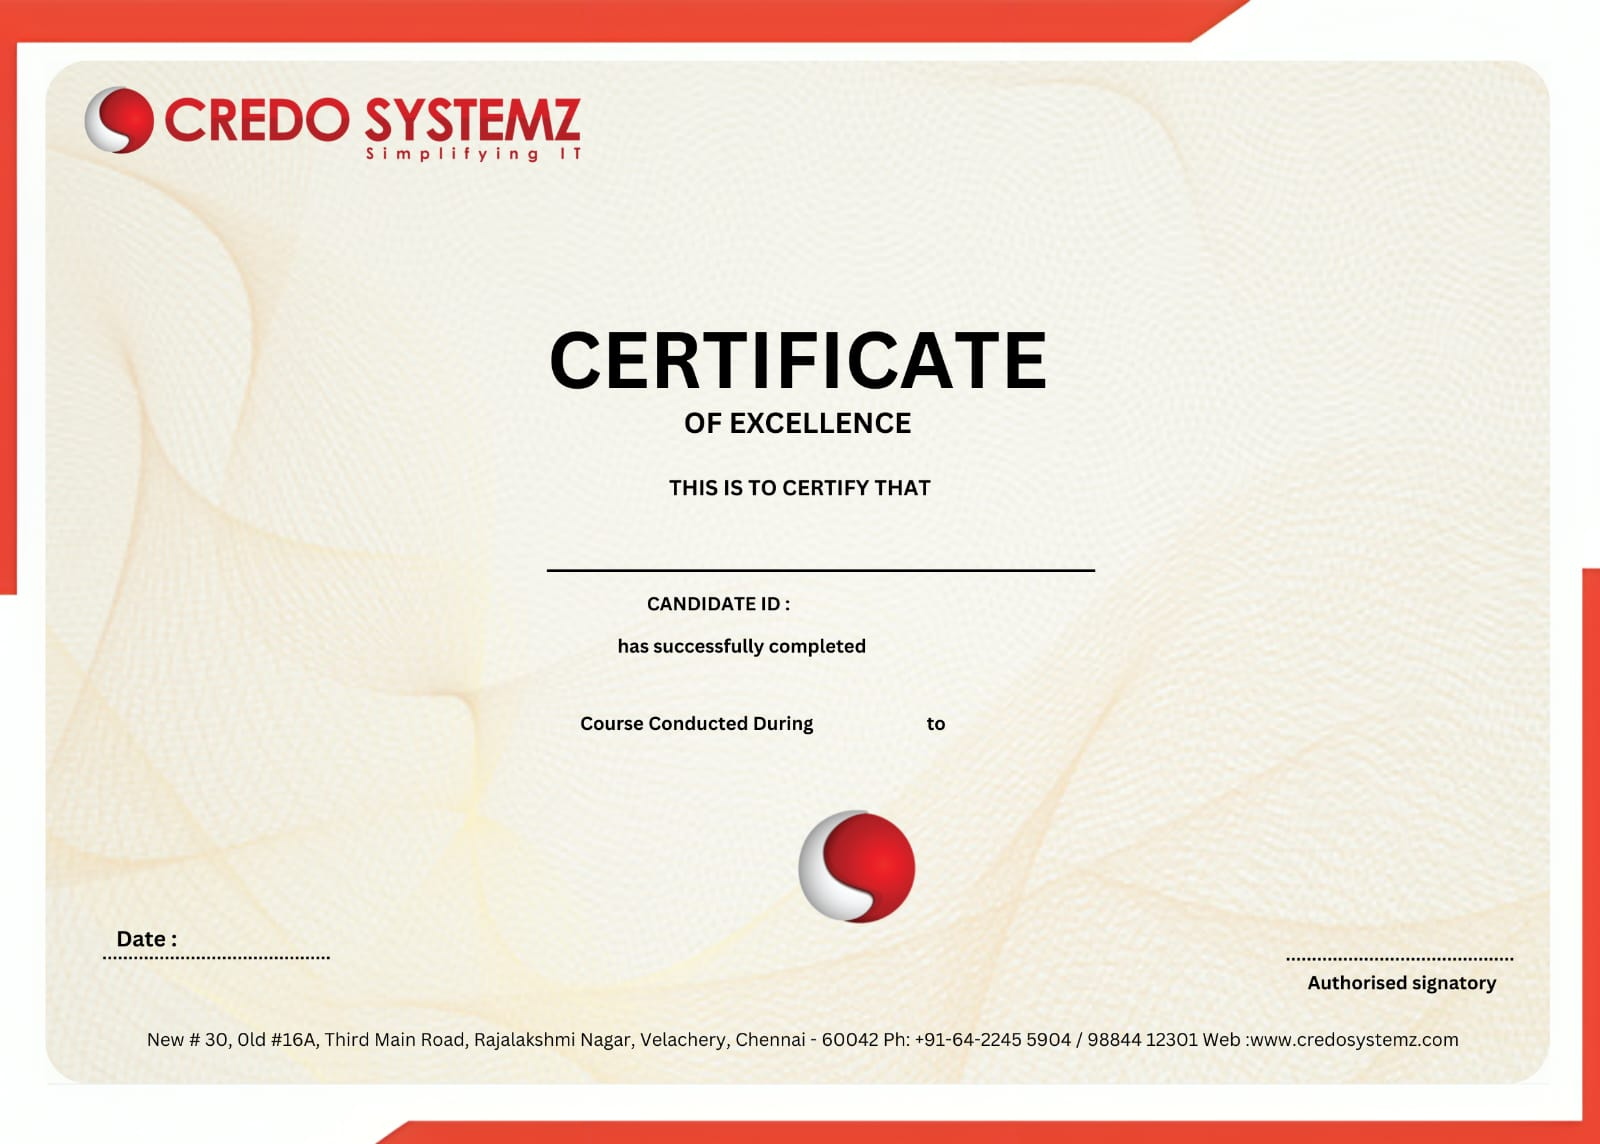
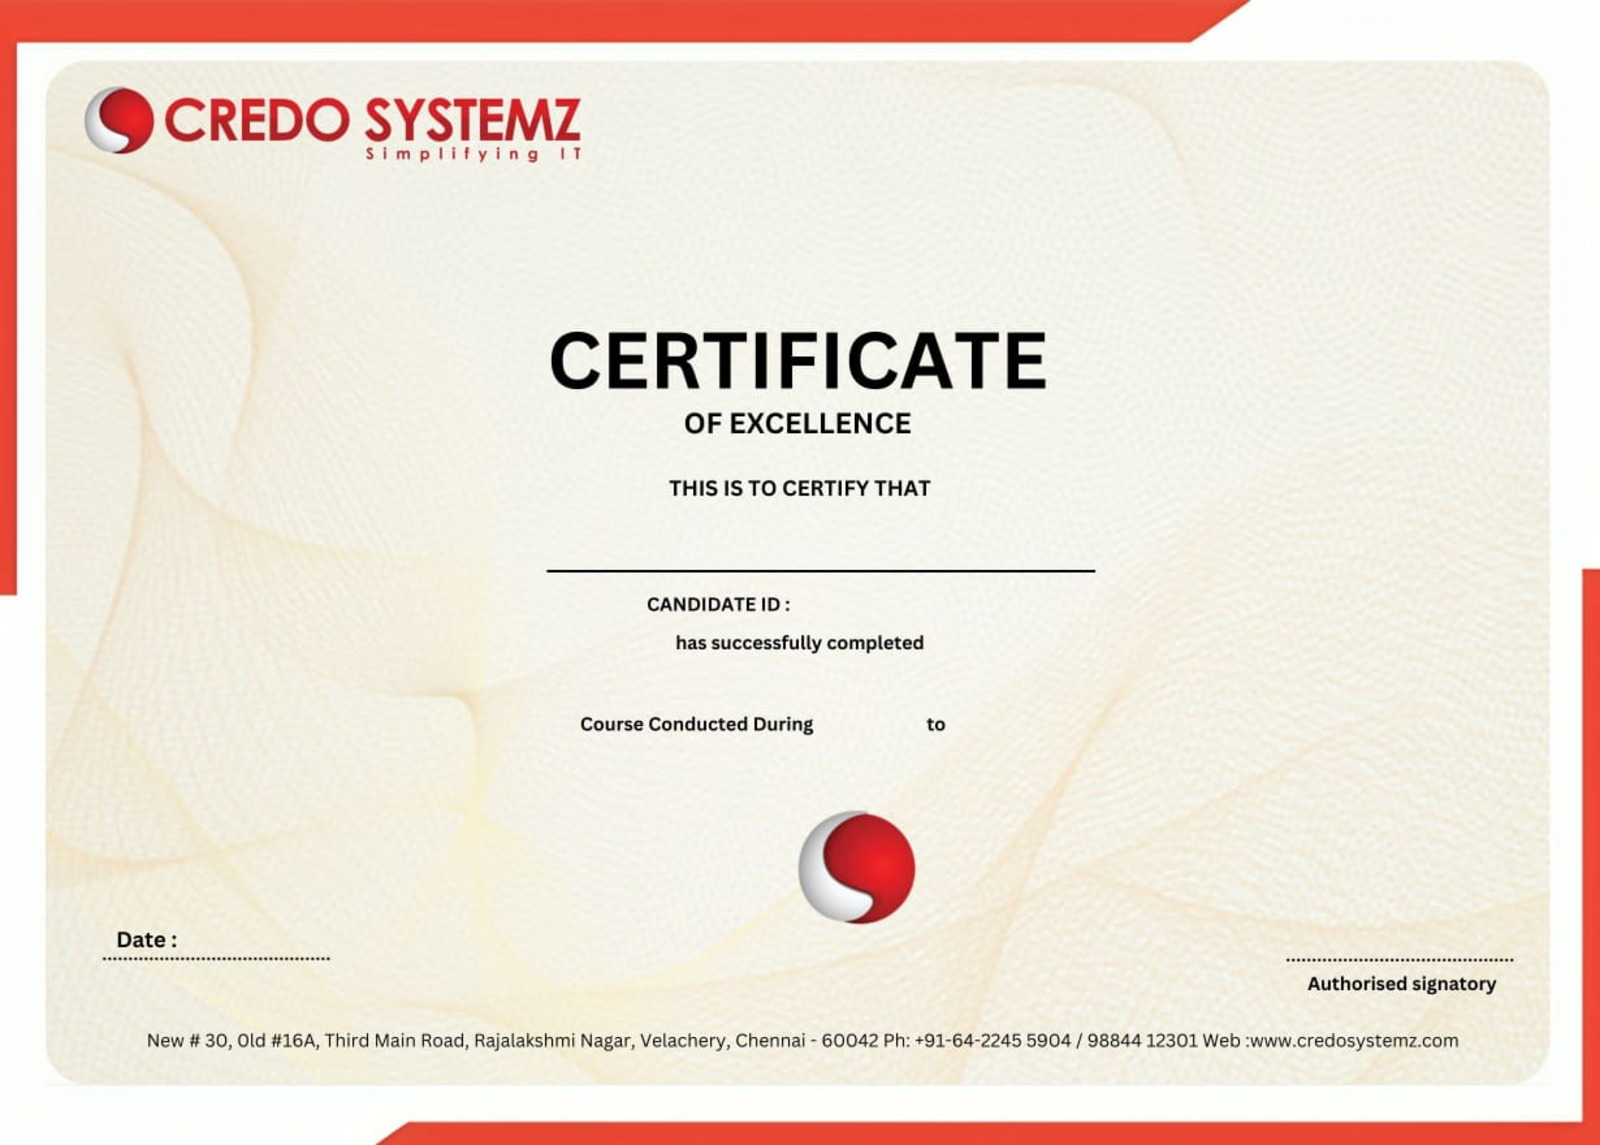
l

diff --git a/certificate.py b/certificate.py
@@ -24,7 +24,7 @@ datascience = Image.open("datascience.png")
 
 for i, row in data.iterrows():
     #opening base certificate iamge file
-    im = Image.open("certificate4.jpg")
+    im = Image.open("certificate.jpg")
 
     #creating draw function
     d = ImageDraw.Draw(im)
